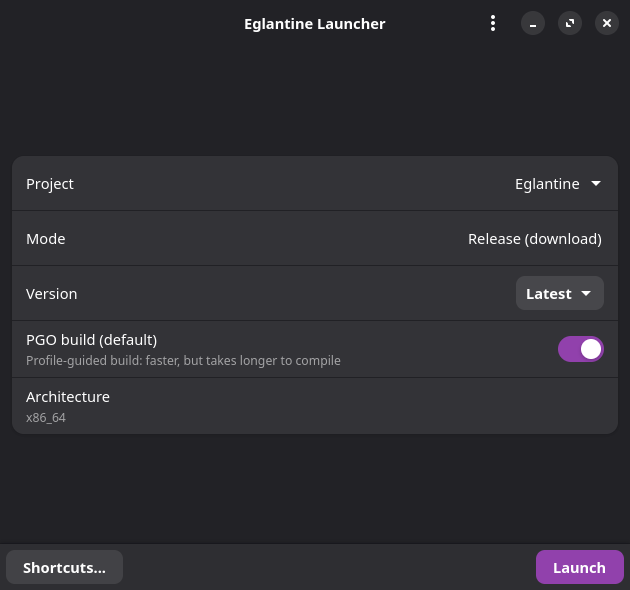
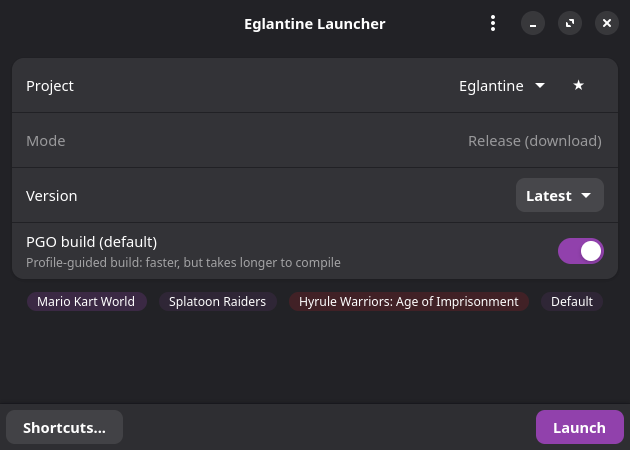
docs(screenshots): refresh captures for the new UI
Regenerate all light/dark captures (taller main window, sidebar
settings, PR builds page, source editor tabs) and drop the retired
standalone PR dialog shots.

diff --git a/docs/screenshots/README.md b/docs/screenshots/README.md
@@ -4,9 +4,13 @@
 |---|---|---|
 | Main | ![Main light](light/main.png) | ![Main dark](dark/main.png) |
 | Settings | ![Settings light](light/settings.png) | ![Settings dark](dark/settings.png) |
+| Settings sources | ![Settings sources light](light/settings_sources.png) | ![Settings sources dark](dark/settings_sources.png) |
+| Settings games | ![Settings games light](light/settings_games.png) | ![Settings games dark](dark/settings_games.png) |
+| Settings PR builds | ![Settings PR builds light](light/settings_pr_builds.png) | ![Settings PR builds dark](dark/settings_pr_builds.png) |
 | Source settings | ![Source settings light](light/source_edit.png) | ![Source settings dark](dark/source_edit.png) |
+| Source storage | ![Source storage light](light/source_edit_storage.png) | ![Source storage dark](dark/source_edit_storage.png) |
+| Source tags | ![Source tags light](light/source_edit_tags.png) | ![Source tags dark](dark/source_edit_tags.png) |
 | About | ![About light](light/about.png) | ![About dark](dark/about.png) |
-| PR Builds | ![PR Builds light](light/pr_builds.png) | ![PR Builds dark](dark/pr_builds.png) |
 
 Retake with `make screenshot` (needs Xvfb, xdotool, ImageMagick).
 Captures run with an isolated home directory, so only the shipped
